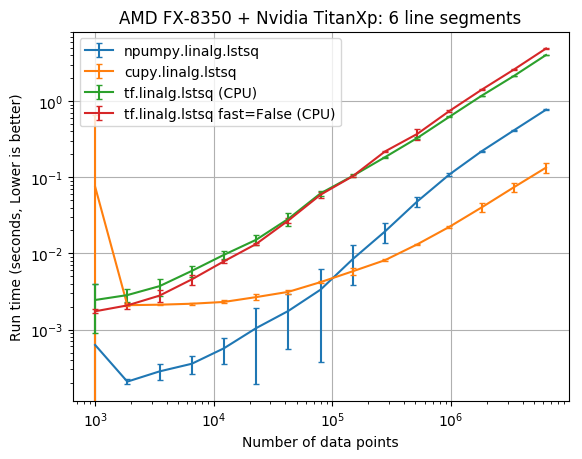
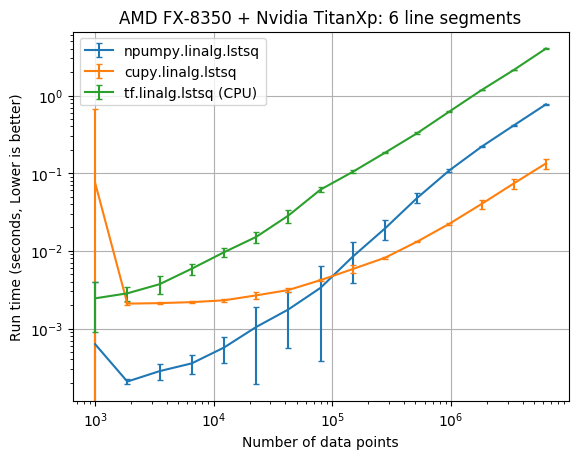
update plots

diff --git a/cupy/plot_results.py b/cupy/plot_results.py
@@ -20,10 +20,14 @@ run_times_stds1 = run_times1.std(axis=2, ddof=1)
 plt.figure()
 plt.title('AMD FX-8350 + Nvidia TitanXp: 6 line segments')
 plt.grid()
-plt.errorbar(n, run_times_means[0], yerr=k*run_times_stds[0], capsize=2.0, label='npumpy.linalg.lstsq')
-plt.errorbar(n, run_times_means[1], yerr=k*run_times_stds[1], capsize=2.0, label='cupy.linalg.lstsq')
-plt.errorbar(n, run_times_means[2], yerr=k*run_times_stds[2], capsize=2.0, label='tf.linalg.lstsq (CPU)')
-plt.errorbar(n, run_times_means[3], yerr=k*run_times_stds[3], capsize=2.0, label='tf.linalg.lstsq fast=False (CPU)')
+plt.errorbar(n, run_times_means[0], yerr=k*run_times_stds[0], capsize=2.0,
+             label='npumpy.linalg.lstsq')
+plt.errorbar(n, run_times_means[1], yerr=k*run_times_stds[1], capsize=2.0,
+             label='cupy.linalg.lstsq')
+plt.errorbar(n, run_times_means[2], yerr=k*run_times_stds[2], capsize=2.0,
+             label='tf.linalg.lstsq (CPU)')
+# plt.errorbar(n, run_times_means[3], yerr=k*run_times_stds[3], capsize=2.0,
+#              label='tf.linalg.lstsq fast=False (CPU)')
 
 
 plt.xlabel('Number of data points')
@@ -38,10 +42,14 @@ print('cupy 1e7 time faster', run_times_means[0][-1]/run_times_means[1][-1])
 plt.figure()
 plt.title('AMD FX-8350 + Nvidia TitanXp: 20 line segments')
 plt.grid()
-plt.errorbar(n, run_times_means1[0], yerr=k*run_times_stds1[0], capsize=2.0, label='npumpy.linalg.lstsq')
-plt.errorbar(n, run_times_means1[1], yerr=k*run_times_stds1[1], capsize=2.0, label='cupy.linalg.lstsq')
-plt.errorbar(n, run_times_means1[2], yerr=k*run_times_stds1[2], capsize=2.0, label='tf.linalg.lstsq (CPU)')
-plt.errorbar(n, run_times_means1[3], yerr=k*run_times_stds1[3], capsize=2.0, label='tf.linalg.lstsq fast=False (CPU)')
+plt.errorbar(n, run_times_means1[0], yerr=k*run_times_stds1[0], capsize=2.0,\
+             label='npumpy.linalg.lstsq')
+plt.errorbar(n, run_times_means1[1], yerr=k*run_times_stds1[1], capsize=2.0,
+             label='cupy.linalg.lstsq')
+plt.errorbar(n, run_times_means1[2], yerr=k*run_times_stds1[2], capsize=2.0,
+             label='tf.linalg.lstsq (CPU)')
+# plt.errorbar(n, run_times_means1[3], yerr=k*run_times_stds1[3], capsize=2.0,
+#              label='tf.linalg.lstsq fast=False (CPU)')
 
 
 plt.xlabel('Number of data points')
